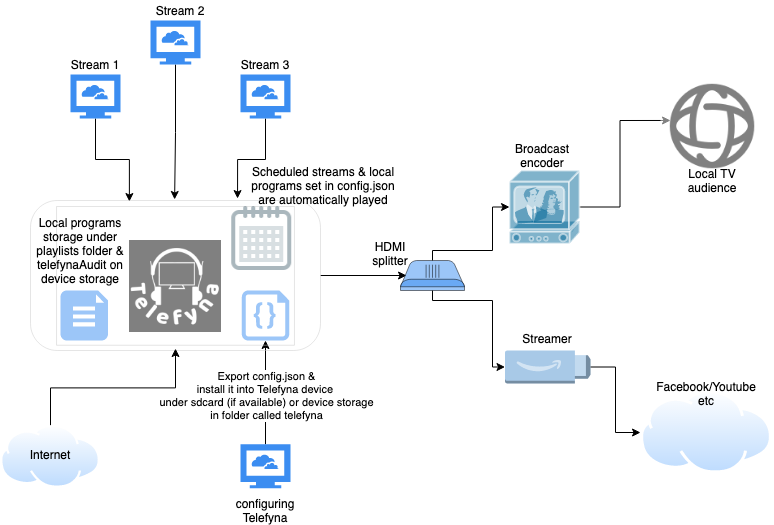
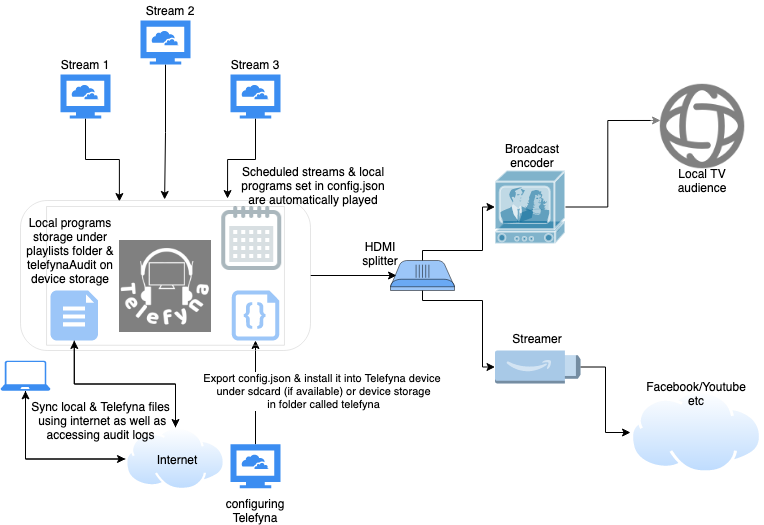
revised infrastructure

diff --git a/telefyna/configuration.html b/telefyna/configuration.html
@@ -309,6 +309,9 @@
                                   </div>
                                 <div class="modal-body">
                                     <iframe width="560" height="315" src="https://www.youtube.com/embed/jTlgO9NGFdE" frameborder="0" allow="accelerometer; autoplay; clipboard-write; encrypted-media; gyroscope; picture-in-picture" allowfullscreen></iframe>
+                                    <br><br><hr>
+                                    <h5>Telefyna Infrastructure</h5>
+                                    <img src="telefynaDesign.png" alt="Telefyna Insfrastructure"><br>
                                 </div>
                                 <div class="modal-footer">
                                     <button type="button" class="btn btn-danger" id="close-delete" data-dismiss="modal">Close</button>

diff --git a/README.md b/README.md
@@ -4,6 +4,9 @@
 The best simplest performing online stream & local file scheduling auto player for TV broadcasting.
 ______
 
+## Infrastructure
+![Telefyna Infrastructure](telefyna/telefynaDesign.png "Telefyna Infrastructure")
+
 ## Installation
 * Download the [APK from here](https://github.com/avventoapps/avvento/releases/latest/download/telefyna.apk) and install it, grant the app Storage permission and reload it if necessary
 
